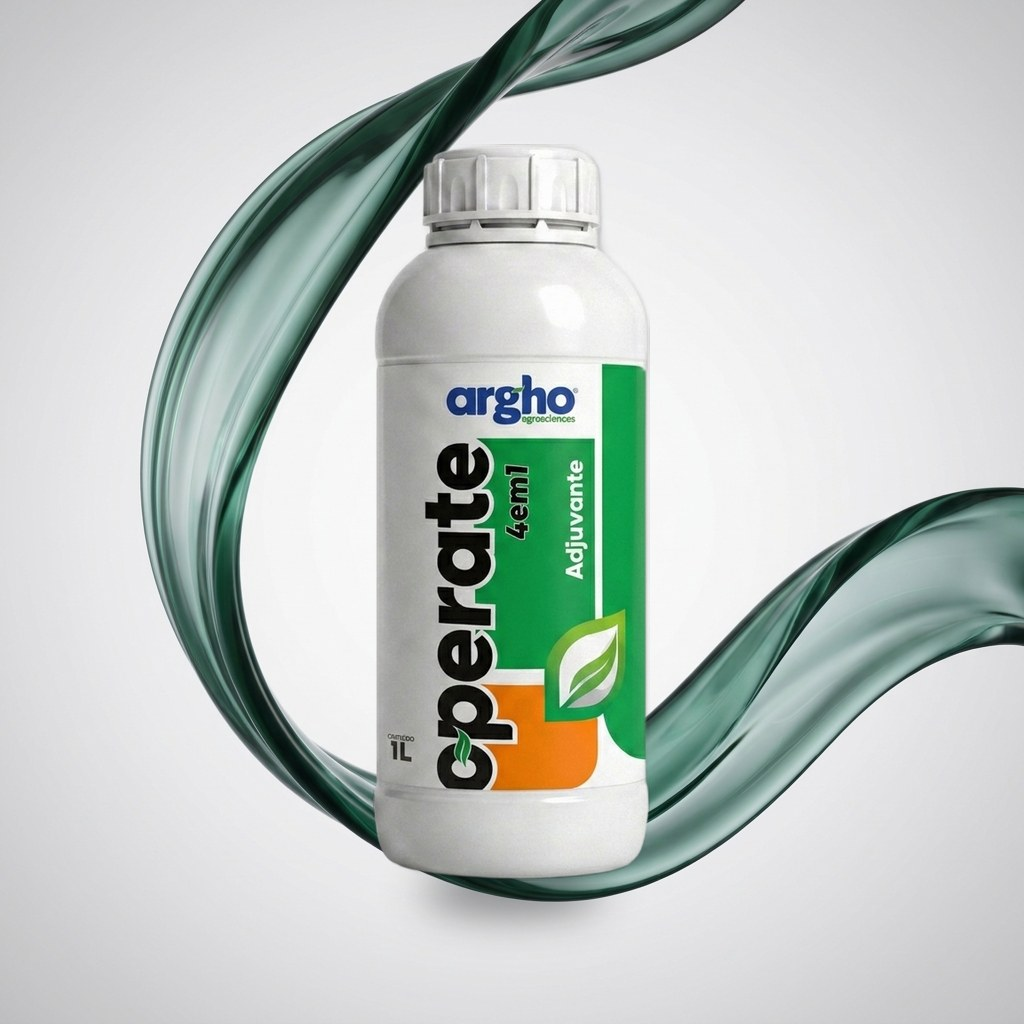
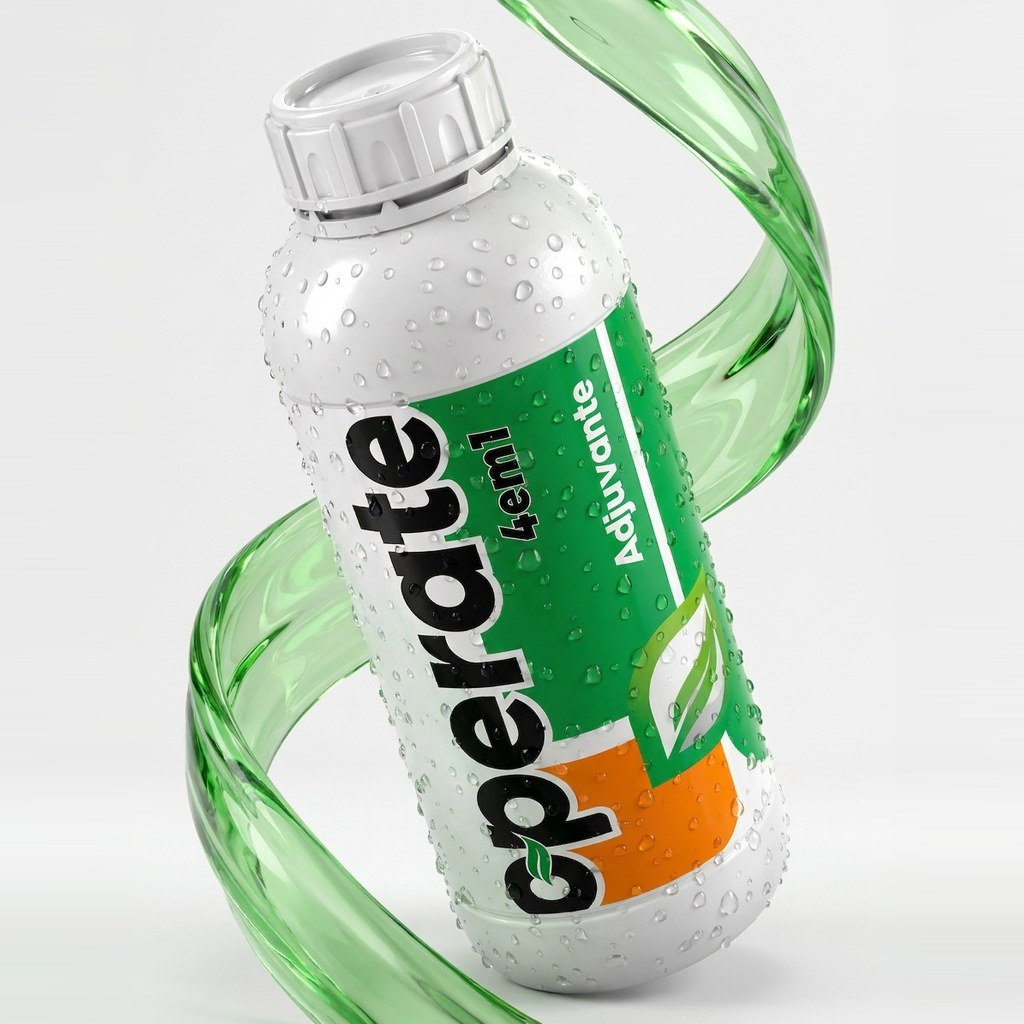
fix(site): dados corretos dos adjuvantes Operate + imagens premium v2
Alinha site (products.ts) e plataforma (seed.ts) as fichas tecnicas oficiais:
- Plus: remove claim ERRADO de ajuste de pH (condicionador multifuncional; NAO ajusta pH)
- Citronela: oleo 3%, repelente NATURAL (sem claim de inseticida/repelente registrado)
- 4em1: unico que ajusta pH (acido fosforico; calda-alvo 4,0-6,5)
- Orange: D-limoneno 6%, super-molhante/penetrante
- Todos marcados isentos de registro MAPA

Imagens premium 1024 (citronela/plus/4em1) no look v2 aprovado;
geracao Nano Banana com master como ref, nome conferido por auditoria.

Migration 0046 (Supabase) incluida - rodar no SQL Editor (espelha seed/products).

diff --git a/apps/website/src/lib/products.ts b/apps/website/src/lib/products.ts
@@ -81,7 +81,7 @@ export const CATEGORIES: Record<ProductCategory, { label: string; description: s
   adjuvantes: {
     label: 'Adjuvantes',
     description:
-      'A família Operate: espalhantes adesivos premium com óleos essenciais, condicionamento de pH e ação antideriva para potencializar a eficiência de qualquer calda.',
+      'A família Operate: adjuvantes premium — surfactantes com óleos essenciais, condicionadores de calda e ação antideriva — para potencializar a eficiência de qualquer aplicação.',
   },
 };
 
@@ -559,12 +559,12 @@ export const PRODUCTS: Product[] = [
     slug: 'operate-plus',
     name: 'Operate Plus',
     category: 'adjuvantes',
-    tagline: 'Adjuvante espalhante adesivo premium com condicionador de pH',
+    tagline: 'Condicionador multifuncional de calda — qualidade da água e eficiência na aplicação',
     description:
-      'Adjuvante espalhante adesivo de última geração com surfactante não-iônico de baixa tensão superficial, condicionador de pH (buffer ácido para 4,5–5,5) e agente antiespumante. Garante cobertura foliar uniforme, aderência superior e proteção contra hidrólise alcalina de agroquímicos.',
+      'Condicionador multifuncional de calda que reúne sequestrante de cátions, blend de surfactantes não-iônicos, agente antideriva e antiespumante. Melhora a qualidade da água de pulverização, a cobertura e a estabilidade da calda, reduzindo perdas por deriva e formação de espuma. Adicionar primeiro no tanque, na dose de 0,5–1,0 mL/L (100–200 mL/ha). Produto isento de registro no MAPA.',
     physicalState: 'fluido',
     originCountry: 'Brasil',
-    productType: 'Adjuvante Espalhante Adesivo',
+    productType: 'Condicionador Multifuncional de Calda',
     applicationModes: ['Via Foliar'],
     composition: {},
     packaging: [
@@ -579,14 +579,14 @@ export const PRODUCTS: Product[] = [
     slug: 'operate-citronela',
     name: 'Operate Citronela',
     category: 'adjuvantes',
-    tagline: 'Adjuvante espalhante com óleo essencial de citronela',
+    tagline: 'Adjuvante surfactante com óleo essencial de citronela (3%)',
     description:
-      'Adjuvante espalhante adesivo formulado com óleo essencial de citronela (Cymbopogon nardus). Além da função de espalhante, o óleo essencial atua como repelente de insetos na calda, agregando efeito antipraga sem resistência. Aroma característico marca a passagem da aplicação.',
+      'Adjuvante surfactante formulado com óleo essencial de citronela (3%). Reduz a tensão superficial da calda, melhorando o espalhamento e a absorção dos ativos, e agrega o efeito repelente natural da citronela à aplicação. Adicionar por último no tanque (produto oleoso), na dose de 1,5–2,0 mL/L (150–200 mL/ha) — aplicação convencional, baixa vazão ou drone. Produto isento de registro no MAPA.',
     physicalState: 'fluido',
     originCountry: 'Brasil',
-    productType: 'Adjuvante Espalhante Adesivo',
+    productType: 'Adjuvante Surfactante com Óleo Essencial',
     applicationModes: ['Via Foliar'],
-    composition: {},
+    composition: { others: { 'Óleo essencial de citronela': 3.0 } },
     packaging: [
       { type: 'bottle', volumeL: 1, sku: 'OPERATE-CIT-1L' },
       { type: 'bottle', volumeL: 5, sku: 'OPERATE-CIT-5L' },
@@ -599,12 +599,12 @@ export const PRODUCTS: Product[] = [
     slug: 'operate-4em1',
     name: 'Operate 4em1',
     category: 'adjuvantes',
-    tagline: 'Adjuvante multifuncional: espalhante, adesivo, condicionador e anti-espumante',
+    tagline: 'Condicionador multifuncional 4 em 1 — ajusta o pH e prepara a calda',
     description:
-      'O mais completo da família Operate. Combina quatro funções em um único produto: espalhante não-iônico, adesivo polimérico, condicionador de pH e antiespumante de silicone. Reduz o volume de adjuvantes na mochila e simplifica o preparo da calda sem perda de eficiência.',
+      'O mais completo da família Operate: condicionador multifuncional que reúne sequestrante de cátions, redutor de pH à base de ácido fosfórico, surfactantes não-iônicos, antideriva e antiespumante. Ajusta o pH da calda para a faixa ideal de 4,0 a 6,5 e melhora a qualidade da aplicação em uma única adição ao tanque. Adicionar primeiro, na dose de 0,5–1,0 mL/L. Por conter ácido fosfórico, redobrar a atenção em misturas alcalinas e com produtos à base de cobre. Produto isento de registro no MAPA.',
     physicalState: 'fluido',
     originCountry: 'Brasil',
-    productType: 'Adjuvante Multifuncional',
+    productType: 'Condicionador Multifuncional de Calda',
     applicationModes: ['Via Foliar'],
     composition: {},
     packaging: [
@@ -619,14 +619,14 @@ export const PRODUCTS: Product[] = [
     slug: 'operate-orange',
     name: 'Operate Orange',
     category: 'adjuvantes',
-    tagline: 'Adjuvante espalhante com óleo essencial de laranja',
+    tagline: 'Adjuvante super-molhante e penetrante com óleo de laranja (D-limoneno 6%)',
     description:
-      'Adjuvante espalhante adesivo com óleo essencial de laranja (Citrus sinensis). O d-Limoneno presente no óleo de laranja potencializa a penetração cuticular de herbicidas e fungicidas sistêmicos, além de exercer ação de choque sobre insetos de corpo mole.',
+      'Adjuvante super-molhante e penetrante à base de óleo da casca de laranja, com 6% de D-limoneno. Potencializa o molhamento das folhas e a penetração cuticular de defensivos e nutrientes sistêmicos. Adicionar por último no tanque, na dose de 1,5–2,0 mL/L (150–200 mL/ha). Produto isento de registro no MAPA.',
     physicalState: 'fluido',
     originCountry: 'Brasil',
-    productType: 'Adjuvante Espalhante Adesivo',
+    productType: 'Adjuvante Super-molhante e Penetrante',
     applicationModes: ['Via Foliar'],
-    composition: {},
+    composition: { others: { 'D-limoneno': 6.0 } },
     packaging: [
       { type: 'bottle', volumeL: 1, sku: 'OPERATE-ORANGE-1L' },
       { type: 'bottle', volumeL: 5, sku: 'OPERATE-ORANGE-5L' },

diff --git a/packages/db/src/scripts/seed.ts b/packages/db/src/scripts/seed.ts
@@ -522,13 +522,13 @@ const PRODUCTS = [
     slug: 'operate-plus',
     name: 'Operate Plus',
     category: 'adjuvantes',
-    tagline: 'Adjuvante espalhante adesivo premium com condicionador de pH',
+    tagline: 'Condicionador multifuncional de calda — qualidade da água e eficiência na aplicação',
     description:
-      'Adjuvante espalhante adesivo de alto desempenho com condicionador de pH para caldas fitossanitárias e nutricionais. Reduz a tensão superficial da calda, aumenta a cobertura e penetração foliar e estabiliza o pH na faixa ideal de eficácia dos ativos. Formulação premium da linha Operate.',
+      'Condicionador multifuncional de calda que reúne sequestrante de cátions, blend de surfactantes não-iônicos, agente antideriva e antiespumante. Melhora a qualidade da água de pulverização, a cobertura e a estabilidade da calda, reduzindo perdas por deriva e formação de espuma. Adicionar primeiro no tanque, na dose de 0,5–1,0 mL/L (100–200 mL/ha). Produto isento de registro no MAPA.',
     status: 'published' as const,
     composition: {},
     technicalSpecs: {
-      product_type: 'Adjuvante Espalhante Adesivo / Condicionador de pH',
+      product_type: 'Condicionador Multifuncional de Calda',
       application_modes: ['Calda Fitossanitária', 'Calda Foliar Nutricional'],
       linha: 'Operate',
     },
@@ -544,13 +544,13 @@ const PRODUCTS = [
     slug: 'operate-citronela',
     name: 'Operate Citronela',
     category: 'adjuvantes',
-    tagline: 'Adjuvante espalhante com óleo essencial de citronela',
+    tagline: 'Adjuvante surfactante com óleo essencial de citronela (3%)',
     description:
-      'Adjuvante espalhante adesivo com óleo essencial de citronela. Combina a função de espalhante e condicionador de pH com o efeito repelente natural da citronela, indicado para programas de manejo integrado que valorizam insumos de menor impacto ambiental.',
+      'Adjuvante surfactante formulado com óleo essencial de citronela (3%). Reduz a tensão superficial da calda, melhorando o espalhamento e a absorção dos ativos, e agrega o efeito repelente natural da citronela à aplicação. Adicionar por último no tanque (produto oleoso), na dose de 1,5–2,0 mL/L (150–200 mL/ha) — aplicação convencional, baixa vazão ou drone. Produto isento de registro no MAPA.',
     status: 'published' as const,
-    composition: {},
+    composition: { others: { 'Óleo essencial de citronela': 3.0 } },
     technicalSpecs: {
-      product_type: 'Adjuvante Espalhante Adesivo com Óleo Essencial',
+      product_type: 'Adjuvante Surfactante com Óleo Essencial',
       application_modes: ['Calda Fitossanitária', 'Calda Foliar Nutricional'],
       linha: 'Operate',
       active_ingredient: 'Óleo essencial de citronela',
@@ -567,17 +567,16 @@ const PRODUCTS = [
     slug: 'operate-4em1',
     name: 'Operate 4em1',
     category: 'adjuvantes',
-    tagline: 'Adjuvante multifuncional: espalhante, adesivo, condicionador e anti-espumante',
+    tagline: 'Condicionador multifuncional 4 em 1 — ajusta o pH e prepara a calda',
     description:
-      'Adjuvante multifuncional que reúne em uma única solução 4 funções: espalhante, adesivo, condicionador de pH e anti-espumante. Simplifica o preparo de caldas e garante máxima eficiência fitossanitária e nutricional com uma só adição ao tanque.',
+      'O mais completo da família Operate: condicionador multifuncional que reúne sequestrante de cátions, redutor de pH à base de ácido fosfórico, surfactantes não-iônicos, antideriva e antiespumante. Ajusta o pH da calda para a faixa ideal de 4,0 a 6,5 e melhora a qualidade da aplicação em uma única adição ao tanque. Adicionar primeiro, na dose de 0,5–1,0 mL/L. Por conter ácido fosfórico, redobrar a atenção em misturas alcalinas e com produtos à base de cobre. Produto isento de registro no MAPA.',
     status: 'published' as const,
     composition: {},
     technicalSpecs: {
-      product_type:
-        'Adjuvante Multifuncional (Espalhante + Adesivo + Condicionador + Anti-espumante)',
+      product_type: 'Condicionador Multifuncional de Calda',
       application_modes: ['Calda Fitossanitária', 'Calda Foliar Nutricional'],
       linha: 'Operate',
-      functions: ['Espalhante', 'Adesivo', 'Condicionador de pH', 'Anti-espumante'],
+      functions: ['Sequestrante de cátions', 'Redutor de pH (ácido fosfórico)', 'Surfactante não-iônico', 'Antideriva', 'Antiespumante'],
     },
     packaging: [
       { type: 'bottle', volumeL: 1, sku: 'OPERATE-4EM1-1L' },
@@ -591,13 +590,13 @@ const PRODUCTS = [
     slug: 'operate-orange',
     name: 'Operate Orange',
     category: 'adjuvantes',
-    tagline: 'Adjuvante espalhante com óleo essencial de laranja',
+    tagline: 'Adjuvante super-molhante e penetrante com óleo de laranja (D-limoneno 6%)',
     description:
-      'Adjuvante espalhante adesivo com óleo essencial de laranja (D-limoneno). Combina a eficiência do espalhante convencional com o poder solvente e penetrante do D-limoneno, potencializando a absorção cuticular de defensivos e nutrientes. Indicado para culturas de alto valor e programas de produção integrada.',
+      'Adjuvante super-molhante e penetrante à base de óleo da casca de laranja, com 6% de D-limoneno. Potencializa o molhamento das folhas e a penetração cuticular de defensivos e nutrientes sistêmicos. Adicionar por último no tanque, na dose de 1,5–2,0 mL/L (150–200 mL/ha). Produto isento de registro no MAPA.',
     status: 'published' as const,
-    composition: {},
+    composition: { others: { 'D-limoneno': 6.0 } },
     technicalSpecs: {
-      product_type: 'Adjuvante Espalhante Adesivo com Óleo Essencial',
+      product_type: 'Adjuvante Super-molhante e Penetrante',
       application_modes: ['Calda Fitossanitária', 'Calda Foliar Nutricional'],
       linha: 'Operate',
       active_ingredient: 'Óleo essencial de laranja (D-limoneno)',
